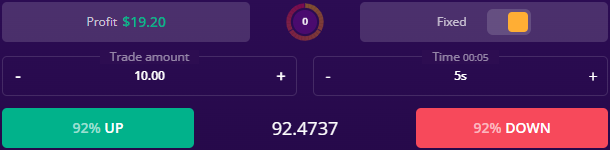
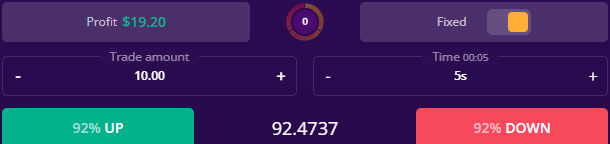
750px

diff --git a/engine/SmartTrader.py b/engine/SmartTrader.py
@@ -720,7 +720,7 @@ class SmartTrader:
                     left = width * 0.38
                     top = height * 0.75
                     right = width * 0.63
-                    bottom = height * 0.98
+                    bottom = height
                 elif element_id == 'expiry_time':
                     left = width * 0.70
                     top = height * 0.33
